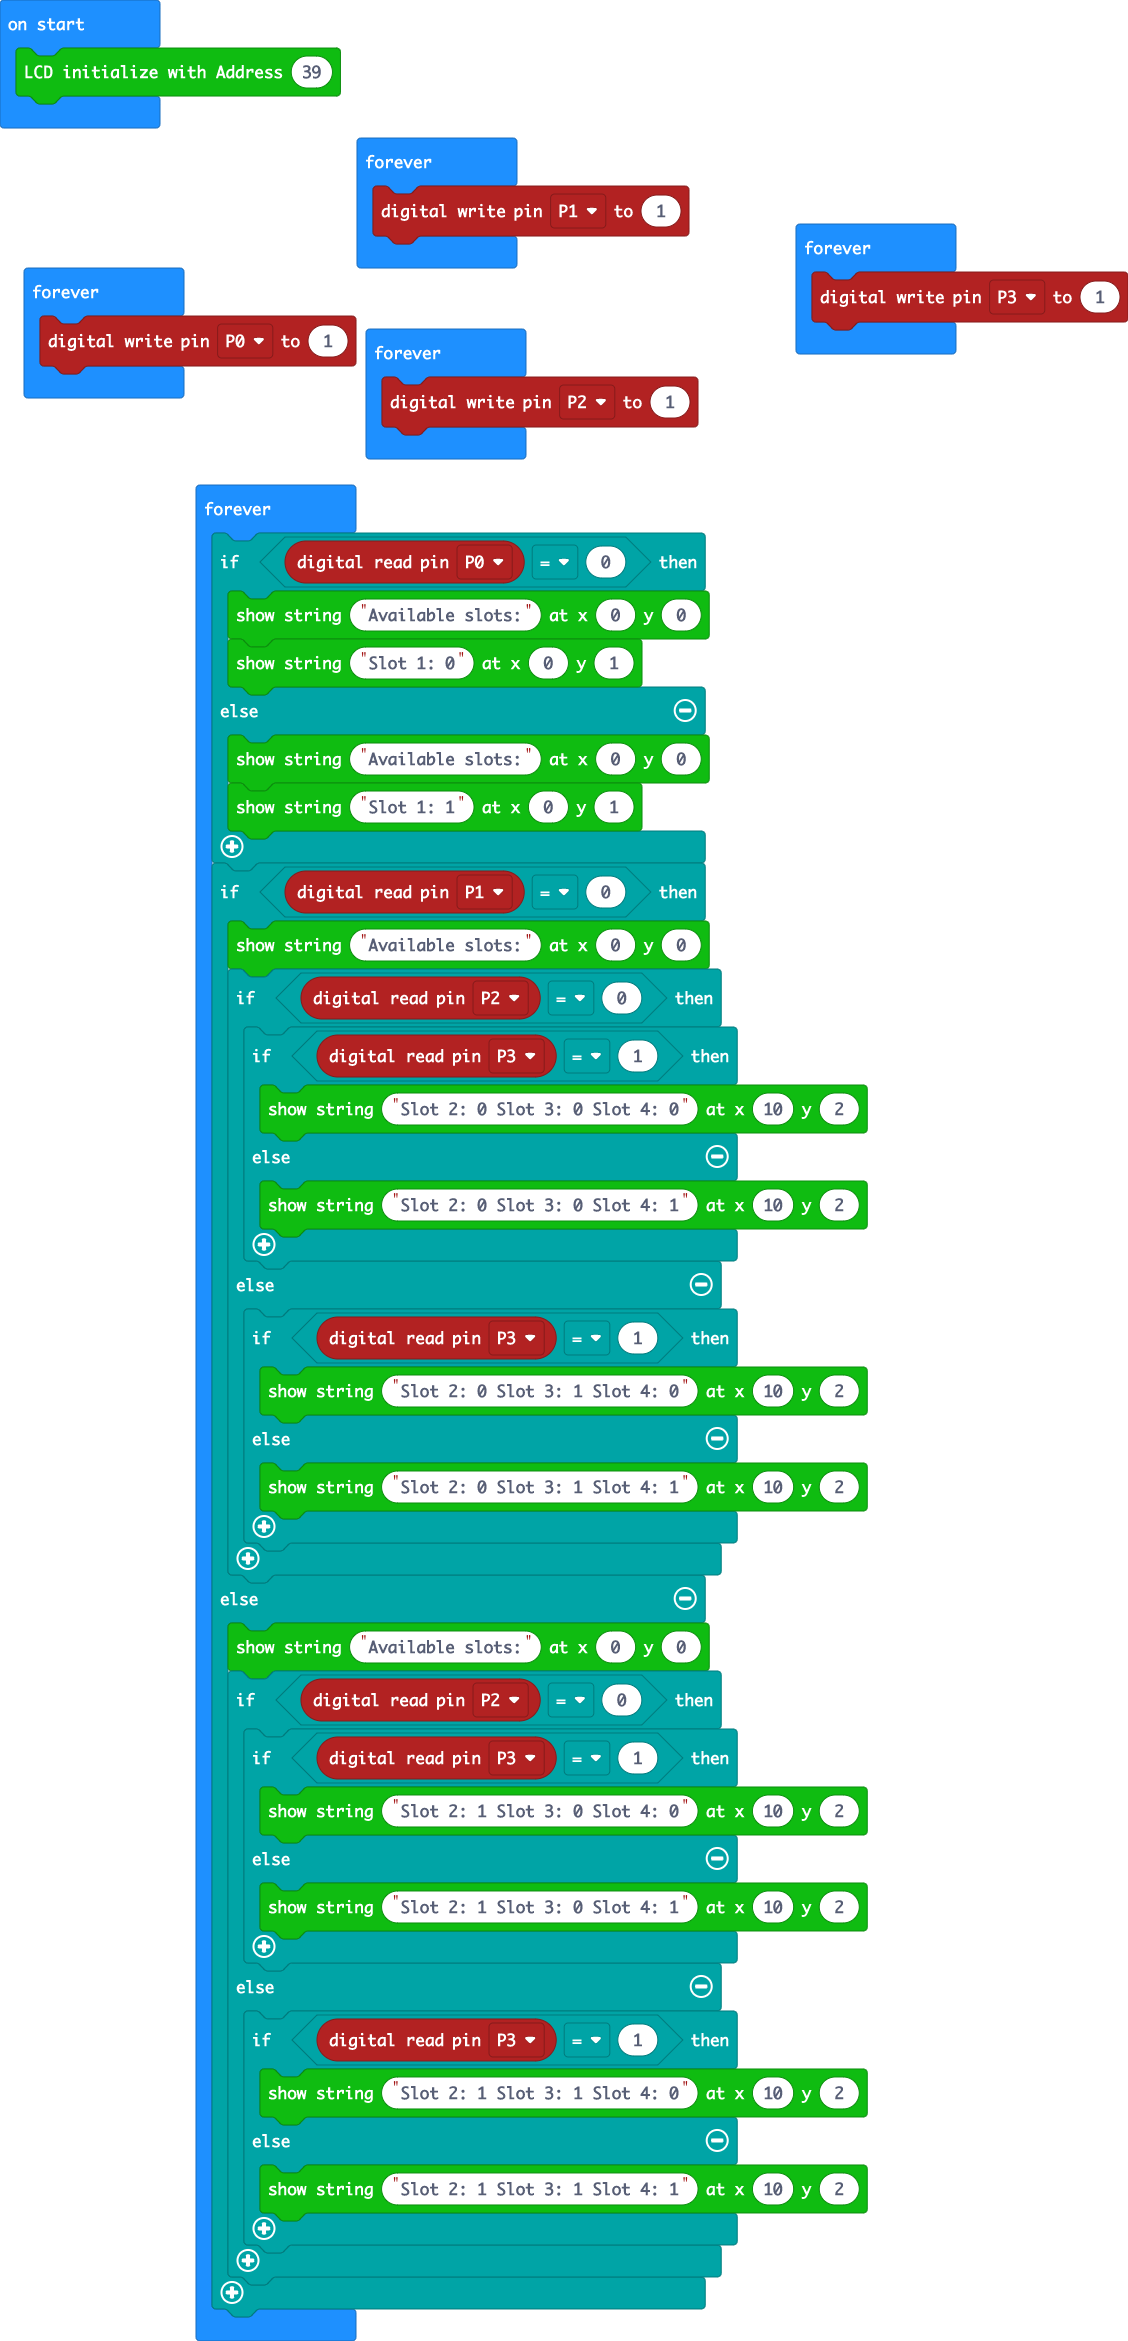
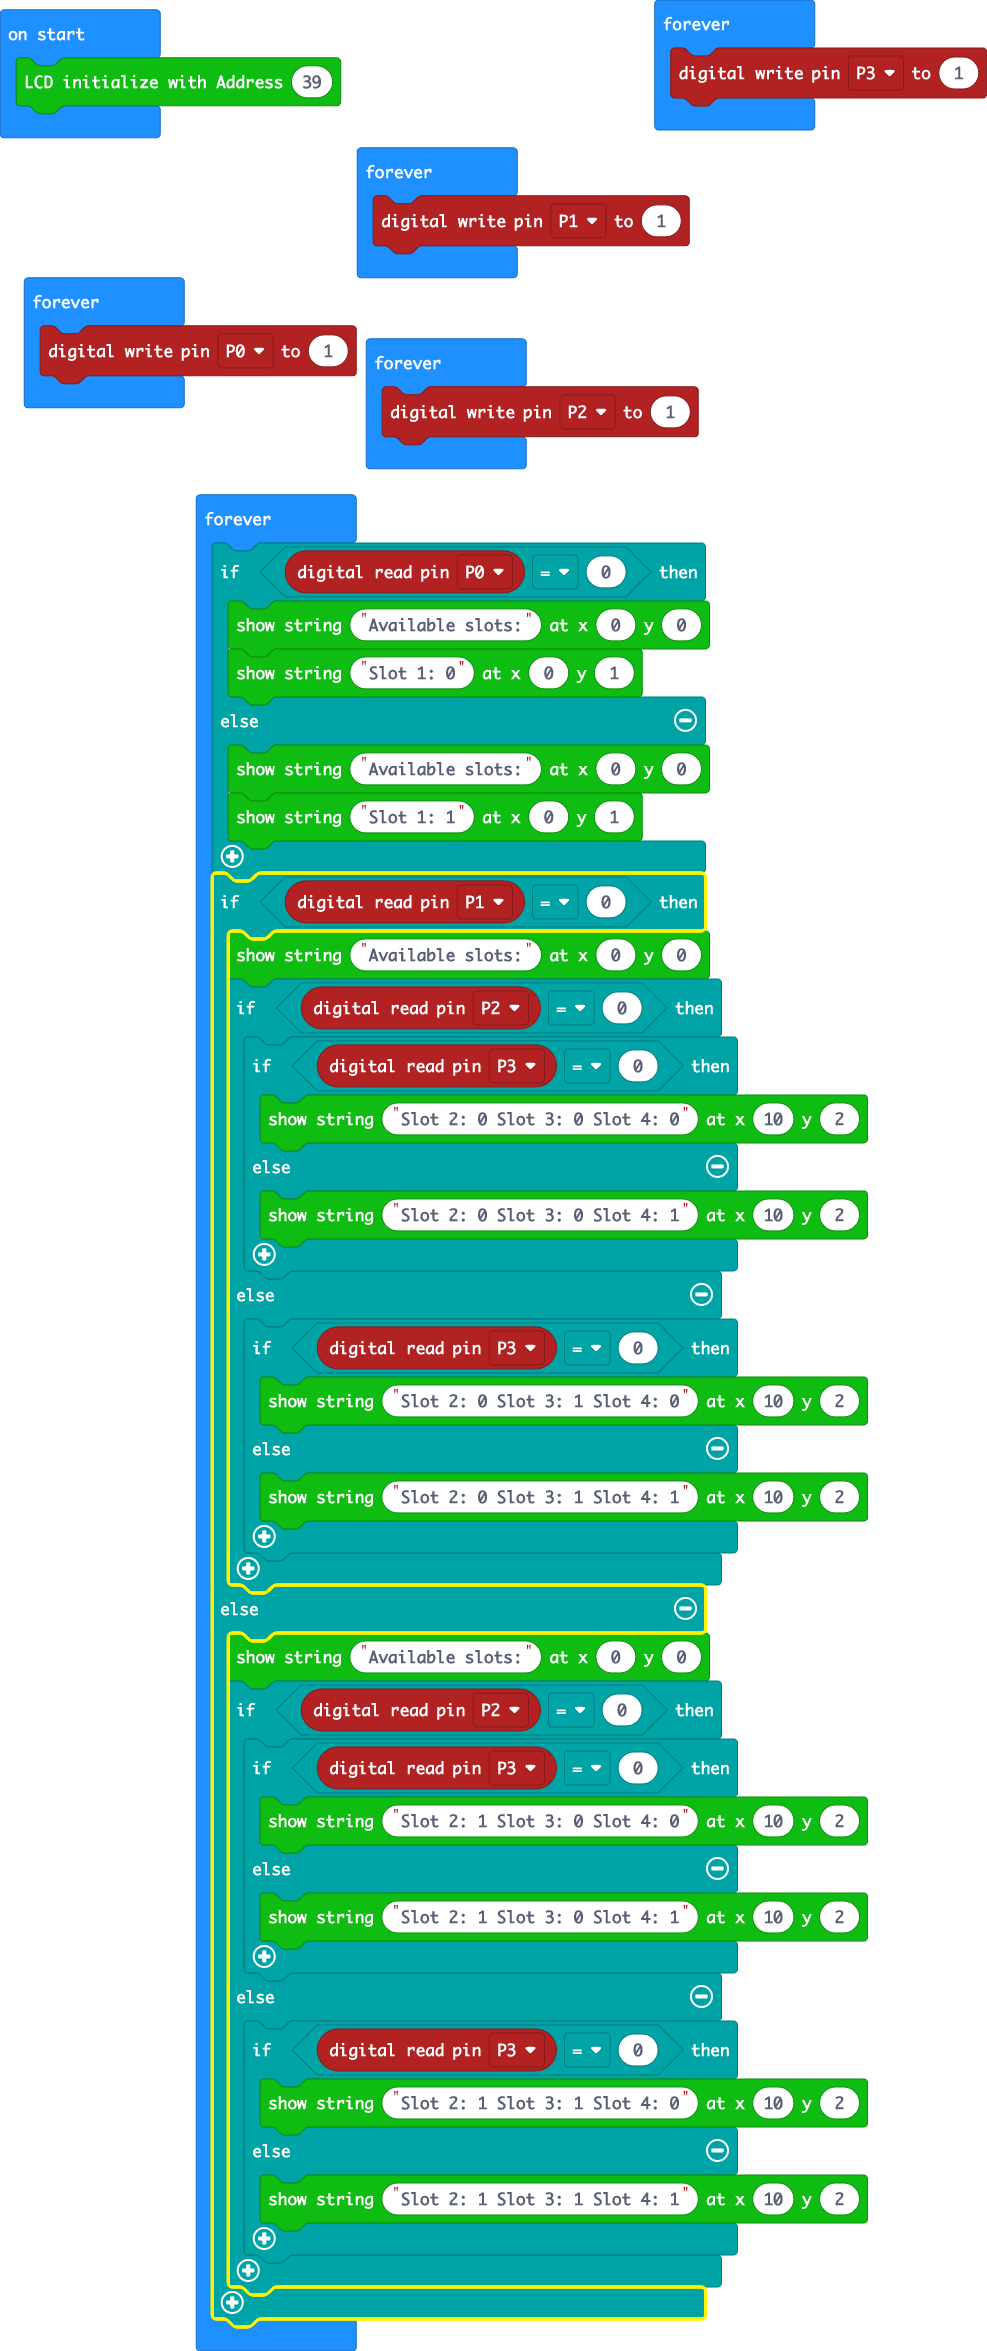
Update main.blocks, main.ts

Changed region(s): [[0.0, 0.0, 1.0, 1.0]]

diff --git a/main.ts b/main.ts
@@ -1,9 +1,9 @@
 I2C_LCD1602.LcdInit(39)
 basic.forever(function () {
-    pins.digitalWritePin(DigitalPin.P1, 1)
+    pins.digitalWritePin(DigitalPin.P3, 1)
 })
 basic.forever(function () {
-    pins.digitalWritePin(DigitalPin.P3, 1)
+    pins.digitalWritePin(DigitalPin.P1, 1)
 })
 basic.forever(function () {
     pins.digitalWritePin(DigitalPin.P0, 1)
@@ -22,13 +22,13 @@ basic.forever(function () {
     if (pins.digitalReadPin(DigitalPin.P1) == 0) {
         I2C_LCD1602.ShowString("Available slots:", 0, 0)
         if (pins.digitalReadPin(DigitalPin.P2) == 0) {
-            if (pins.digitalReadPin(DigitalPin.P3) == 1) {
+            if (pins.digitalReadPin(DigitalPin.P3) == 0) {
                 I2C_LCD1602.ShowString("Slot 2: 0 Slot 3: 0 Slot 4: 0", 10, 2)
             } else {
                 I2C_LCD1602.ShowString("Slot 2: 0 Slot 3: 0 Slot 4: 1", 10, 2)
             }
         } else {
-            if (pins.digitalReadPin(DigitalPin.P3) == 1) {
+            if (pins.digitalReadPin(DigitalPin.P3) == 0) {
                 I2C_LCD1602.ShowString("Slot 2: 0 Slot 3: 1 Slot 4: 0", 10, 2)
             } else {
                 I2C_LCD1602.ShowString("Slot 2: 0 Slot 3: 1 Slot 4: 1", 10, 2)
@@ -37,13 +37,13 @@ basic.forever(function () {
     } else {
         I2C_LCD1602.ShowString("Available slots:", 0, 0)
         if (pins.digitalReadPin(DigitalPin.P2) == 0) {
-            if (pins.digitalReadPin(DigitalPin.P3) == 1) {
+            if (pins.digitalReadPin(DigitalPin.P3) == 0) {
                 I2C_LCD1602.ShowString("Slot 2: 1 Slot 3: 0 Slot 4: 0", 10, 2)
             } else {
                 I2C_LCD1602.ShowString("Slot 2: 1 Slot 3: 0 Slot 4: 1", 10, 2)
             }
         } else {
-            if (pins.digitalReadPin(DigitalPin.P3) == 1) {
+            if (pins.digitalReadPin(DigitalPin.P3) == 0) {
                 I2C_LCD1602.ShowString("Slot 2: 1 Slot 3: 1 Slot 4: 0", 10, 2)
             } else {
                 I2C_LCD1602.ShowString("Slot 2: 1 Slot 3: 1 Slot 4: 1", 10, 2)
